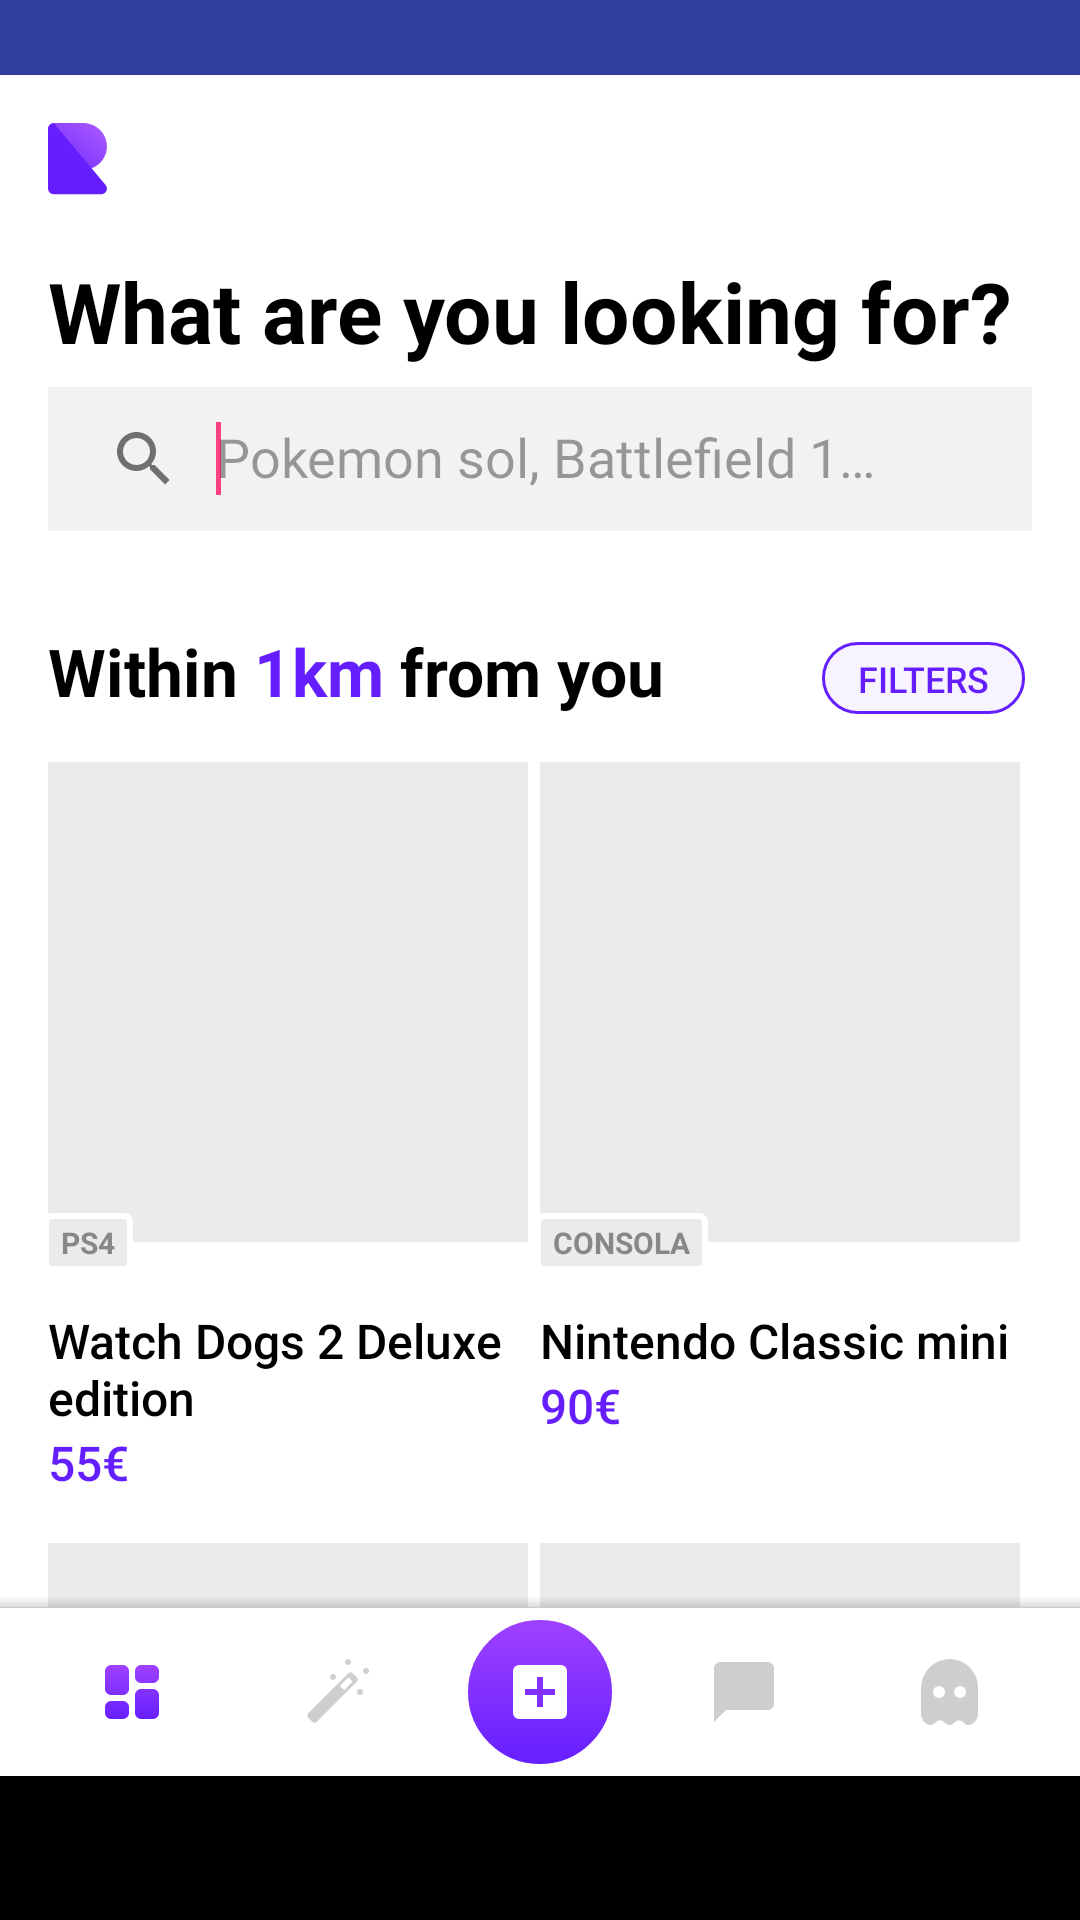
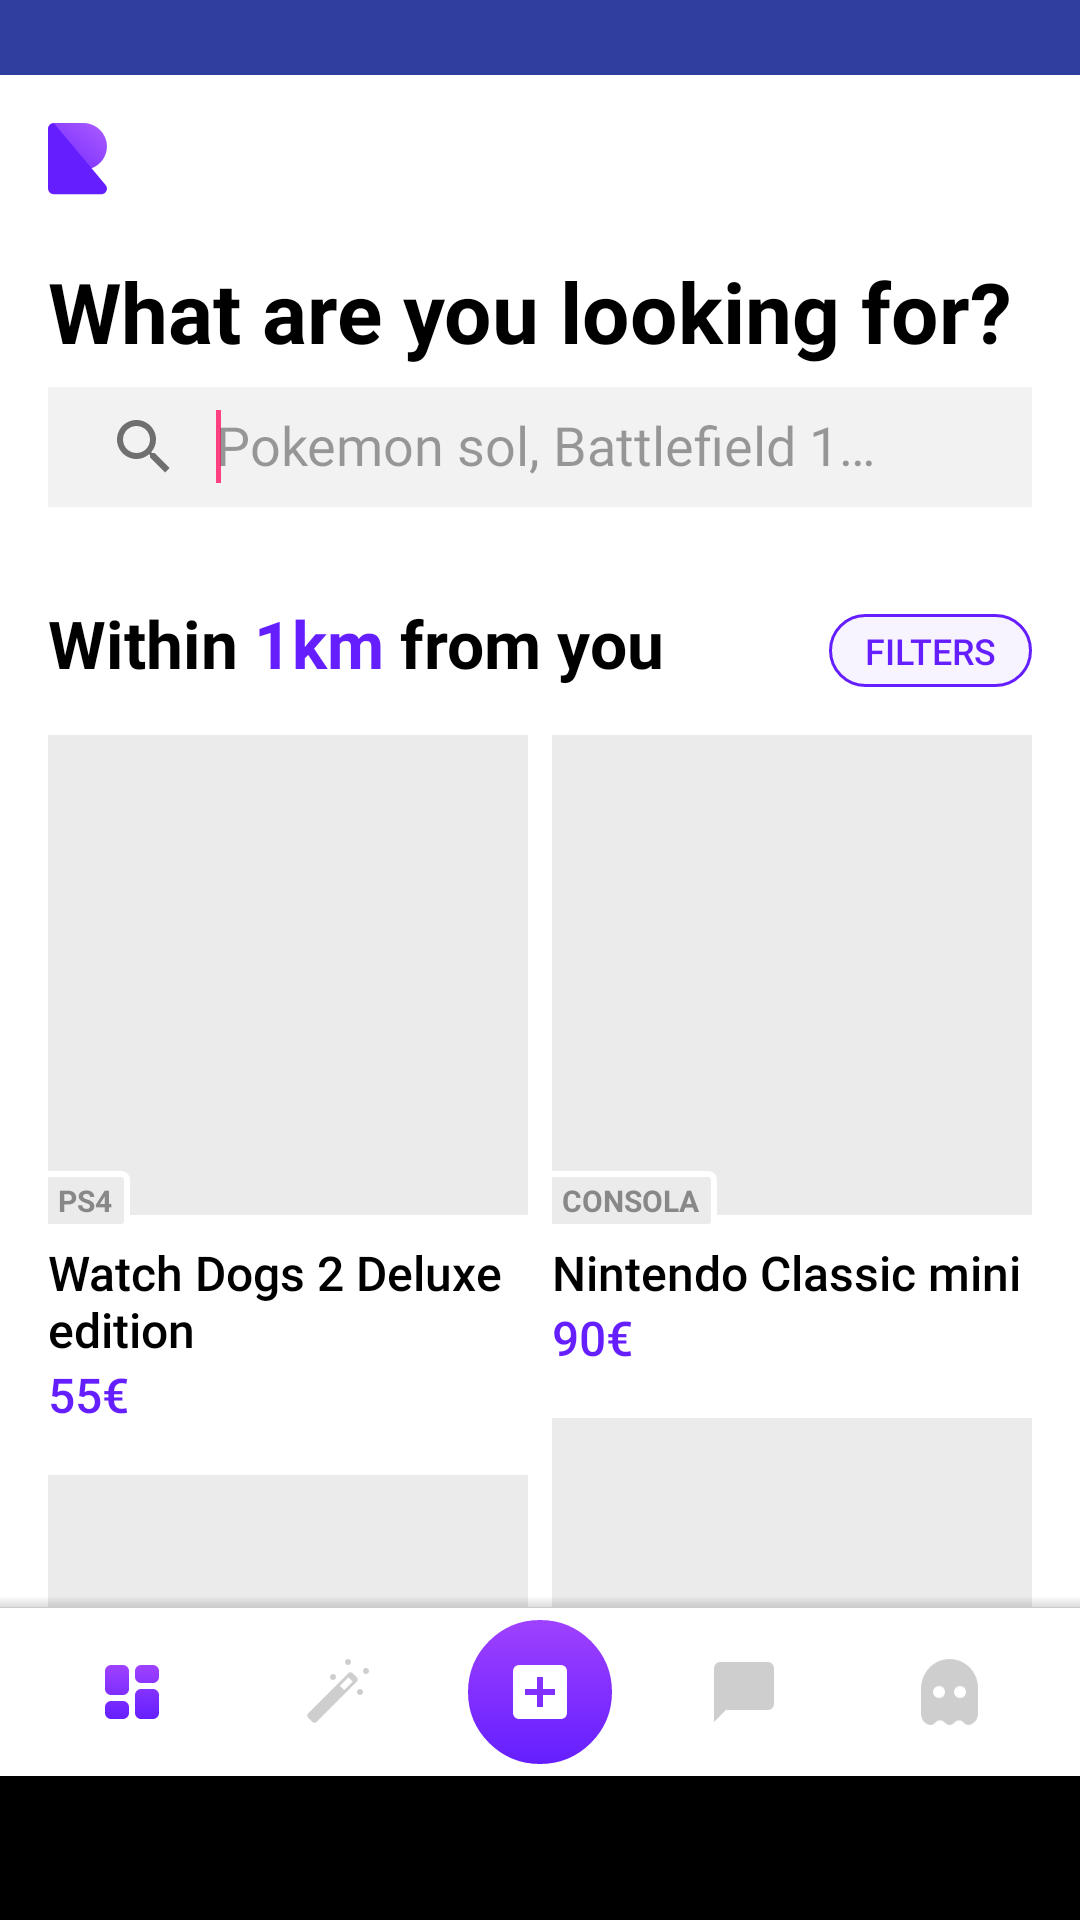
Fix ad paddings and add rounded corners

diff --git a/app/src/main/kotlin/com/restart/restart/listing/ui/view/viewmodel/AdViewModel.kt b/app/src/main/kotlin/com/restart/restart/listing/ui/view/viewmodel/AdViewModel.kt
@@ -8,6 +8,7 @@ import com.airbnb.epoxy.EpoxyHolder
 import com.airbnb.epoxy.EpoxyModelWithHolder
 import com.restart.restart.R
 import com.squareup.picasso.Picasso
+import jp.wasabeef.picasso.transformations.RoundedCornersTransformation
 
 class AdViewModel(
     val title: String,
@@ -16,6 +17,10 @@ class AdViewModel(
     val previewUrl: String,
     val context: Context) : EpoxyModelWithHolder<AdViewModel.ViewHolder>() {
 
+    companion object {
+        val PREVIEW_IMAGE_SIZE: Int = 500
+    }
+
     override fun getDefaultLayout(): Int = R.layout.ad_cell
     override fun createNewHolder(): ViewHolder = ViewHolder()
 
@@ -23,12 +28,15 @@ class AdViewModel(
         super.bind(holder)
         val preview = holder?.preview ?: return
 
+        val cornerRadius = preview.resources.getDimension(R.dimen.listing_ad_cell_image_corner_radius).toInt()
         holder?.title?.text = title
         holder?.platform?.text = platform
         holder?.price?.text = price
         Picasso.with(context)
             .load(previewUrl)
-            .fit()
+            .transform(RoundedCornersTransformation(cornerRadius, 0))
+            .resize(PREVIEW_IMAGE_SIZE, PREVIEW_IMAGE_SIZE)
+            .centerCrop()
             .into(preview)
     }
 

diff --git a/app/src/main/kotlin/com/restart/restart/listing/ui/ListingFragment.kt b/app/src/main/kotlin/com/restart/restart/listing/ui/ListingFragment.kt
@@ -16,13 +16,16 @@ import com.github.salomonbrys.kodein.factory
 import com.github.salomonbrys.kodein.lazy
 import com.restart.restart.R
 import com.restart.restart.listing.ui.view.ListingAdapter
-import com.restart.restart.listing.ui.view.ListingConfiguration
 import com.restart.restart.listing.ui.view.viewmodel.AdViewModel
 import com.restart.restart.shared.ui.view.recyclerview.decoration.ContentPaddingItemDecoration
 import kotlinx.android.synthetic.main.profile.*
 
 
 class ListingFragment : Fragment(), LazyKodeinAware {
+
+    companion object {
+        val NUMBER_OF_COLUMNS: Int = 2
+    }
 
     override val kodein = Kodein.lazy {
         extend(appKodein())
@@ -40,7 +43,7 @@ class ListingFragment : Fragment(), LazyKodeinAware {
         super.onViewCreated(view, savedInstanceState)
 
         adapter = ListingAdapter(adViewModelFactory)
-        val layoutManager = StaggeredGridLayoutManager(ListingConfiguration.NUMBER_OF_COLUMNS, StaggeredGridLayoutManager.VERTICAL)
+        val layoutManager = StaggeredGridLayoutManager(NUMBER_OF_COLUMNS, StaggeredGridLayoutManager.VERTICAL)
 
         content.layoutManager = layoutManager
         content.adapter = adapter
